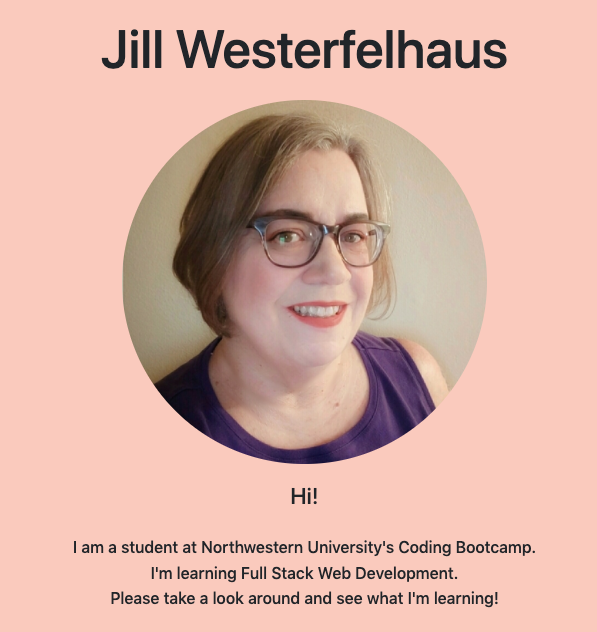
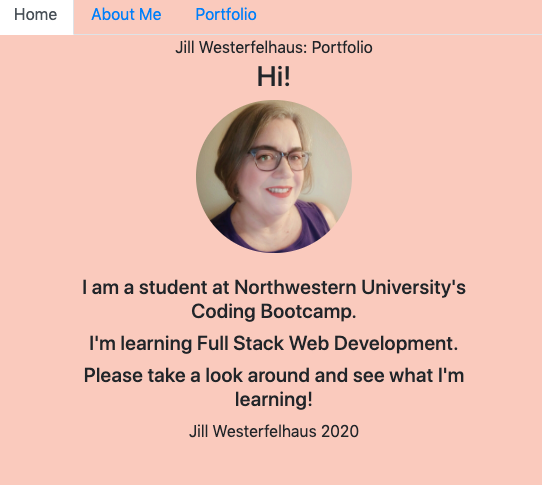
replaced screenshot

diff --git a/README.md b/README.md
@@ -18,6 +18,8 @@ This project is in the public domain per https://unlicense.org/.
 
 https://pacific-spire-73192.herokuapp.com/
 
+![home page portfolio](images/home%20page%20portfolio.png)
+
 
 ## Credits
 
